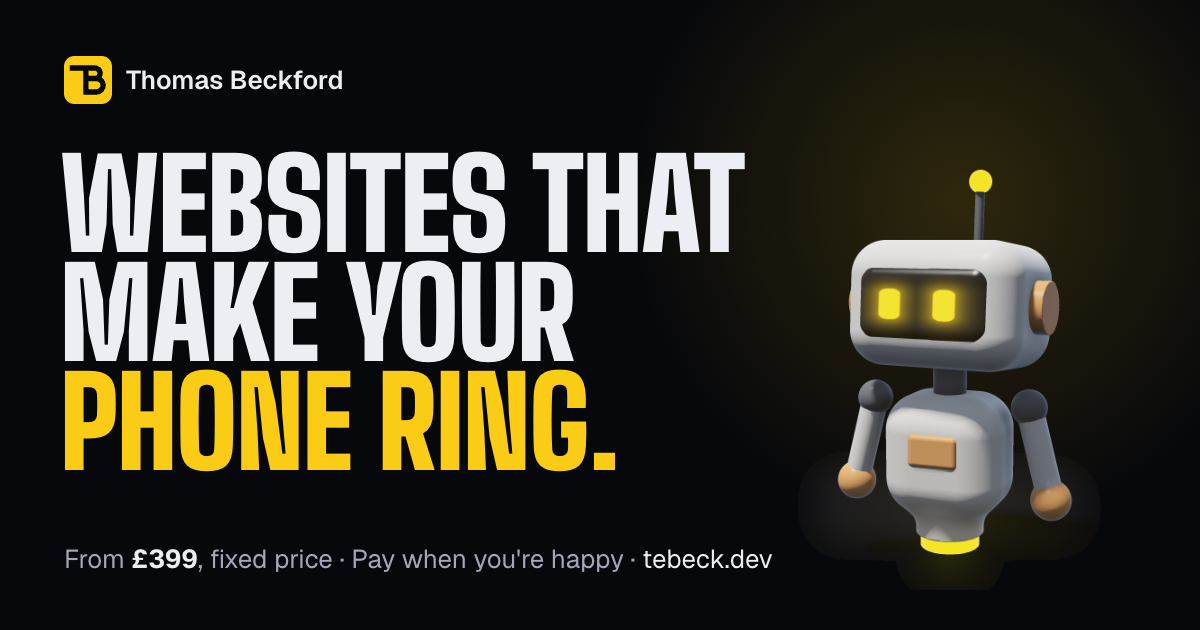
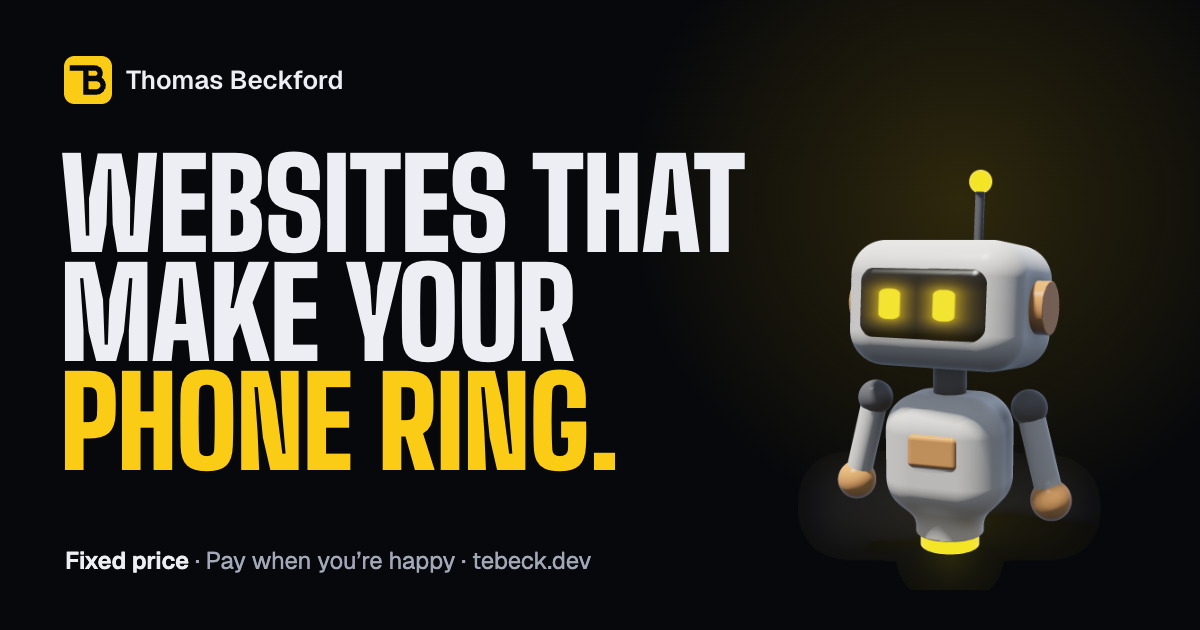
Take my own prices off the site: hero, title, services, FAQ, Boti, schema, llms.txt and OG image now say fixed price / one-off / monthly, quote on request; demo prices stay

Changed region(s): [[0.0308, 0.8746, 0.6475, 0.9048]]

diff --git a/src/site.ts b/src/site.ts
@@ -9,7 +9,6 @@ export const site = {
   github: 'https://github.com/thomasbeckford',
   // Google Business Profile, by its Knowledge Graph id (the share.google link is only a redirect).
   gbp: 'https://www.google.com/search?kgmid=/g/11z_lwyx_k',
-  priceFrom: 399,
   turnaround: 'about a week',
   years: '10+',
   phone: '+44 7917 628713',
@@ -26,21 +25,17 @@ export const whatsapp = (text: string) => `https://wa.me/${site.phone.replace(/\
 
 // Hosting is on Thomas, for every site. The domain he buys too, registered in the client's name, and they pay him back at cost.
 // 🤔 Host on a plan that allows commercial use (Vercel Hobby doesn't).
-export const carePrice = 19
 // One-off add-on: a Payload CMS panel so the client edits words, photos and prices; Thomas keeps design and structure.
 // 🤔 Payload needs a server and a database: check it still fits free hosting before selling it.
-export const cmsPrice = 150
 
-// TODO: monthly price for ads once decided.
 // Enquiry alerts: the n8n flow tebeck.dev runs on itself (tap → Telegram ping + Sheet row, 9:00 reminder after 3 days).
 // 🤔 One-off because it runs on my shared n8n (Railway, ~US$5–10 a month in all, plan unchecked), not one server each.
-export const alertsPrice = 50
 
 export const services = [
-  { name: 'Website', price: `From £${site.priceFrom}`, note: `One-off, fixed price: about £${Math.round(site.priceFrom / 365)} a day over a year. You pay once you're happy with it.`, items: ['Design and all the wording', 'Mobile-first, fast, set up for Google', 'Call, WhatsApp and enquiry buttons', 'Free hosting, no monthly fee', 'Your domain, in your name'] },
-  { name: 'Edit it yourself', price: `+£${cmsPrice}, one-off`, note: 'Your own editing panel, built with Payload CMS', items: ['Log in and change words, photos and prices', 'More than one language included', 'No monthly fee to make changes', 'I look after the design, the content is yours'] },
-  { name: 'Care plan', price: `From £${carePrice} a month`, note: 'Optional, cancel any time', items: ['Changes by message: prices, photos, services', 'Backups and security updates', 'Monthly check on speed and Google'] },
-  { name: 'Enquiry alerts', price: `+£${alertsPrice}, one-off`, note: 'Built with n8n, runs on my server', items: ['Every WhatsApp or email tap pings your phone (Telegram)', 'Logged in a Google Sheet, with where they found you', 'A reminder if one has waited 3 days'] },
+  { name: 'Website', price: 'Fixed price', note: "One-off, agreed before I start. You pay once you're happy with it.", items: ['Design and all the wording', 'Mobile-first, fast, set up for Google', 'Call, WhatsApp and enquiry buttons', 'Free hosting, no monthly fee', 'Your domain, in your name'] },
+  { name: 'Edit it yourself', price: 'One-off', note: 'Your own editing panel, built with Payload CMS', items: ['Log in and change words, photos and prices', 'More than one language included', 'No monthly fee to make changes', 'I look after the design, the content is yours'] },
+  { name: 'Care plan', price: 'Monthly', note: 'Optional, cancel any time', items: ['Changes by message: prices, photos, services', 'Backups and security updates', 'Monthly check on speed and Google'] },
+  { name: 'Enquiry alerts', price: 'One-off', note: 'Built with n8n, runs on my server', items: ['Every WhatsApp or email tap pings your phone (Telegram)', 'Logged in a Google Sheet, with where they found you', 'A reminder if one has waited 3 days'] },
   { name: 'Ads', price: 'Monthly', note: 'Plus your ad budget', items: ['Google Business profile set up and kept fresh', 'Google and Meta ads set up and managed', 'A plain-English report each month'] },
   { name: 'Web and mobile apps', price: 'On quote', note: 'Bookings, payments, logins, or an app in the stores?', items: ['Web apps with Next.js or TanStack Start', 'Dashboards that show your numbers in plain English', 'iOS and Android apps with React Native', 'Backend, APIs and Postgres databases', 'Payments with Stripe'] },
   { name: 'Animation', price: 'On quote', note: 'Want people to stop scrolling and look?', items: ['Scroll effects and motion', 'Interactive and 3D bits', 'Still fast on a phone'] },
@@ -58,7 +53,7 @@ export const faqs = [
   ['I already have a website. Can you redo it?', 'Yes. I rebuild it and move your web address across, so you keep your domain and email.'],
   ['Do I need to write anything?', 'No. Tell me about your business in your own words and I write it up. You approve everything before it goes live.'],
   ['Who owns the website?', 'You do. The domain is registered in your name, not mine.'],
-  ['Can I change the website myself?', `That's what the Edit it yourself add-on is for (£${cmsPrice}, one-off). I set up Payload CMS, an editing panel for your site: you log in, change the words, photos and prices, and press publish. No code, no monthly fee. Already on Sanity, Contentstack or WordPress, or need one of them? I work with those too, headless, priced on quote. I look after the design and anything that needs a developer. More than one language comes with it: every word in each language, same login. More than one venue? Payload handles that too, each venue with its own pages, priced on quote.`],
+  ['Can I change the website myself?', `That's what the Edit it yourself add-on is for, a one-off cost. I set up Payload CMS, an editing panel for your site: you log in, change the words, photos and prices, and press publish. No code, no monthly fee. Already on Sanity, Contentstack or WordPress, or need one of them? I work with those too, headless, priced on quote. I look after the design and anything that needs a developer. More than one language comes with it: every word in each language, same login. More than one venue? Payload handles that too, each venue with its own pages, priced on quote.`],
   ['Do I pay for hosting?', "Hosting is on me: free, for as long as the site is with me. The only yearly cost is your domain: I buy it for you, in your name, and you pay me back what it costs, no markup."],
   ["I'm on Checkatrade. Do I still need a website?", "It helps. On Checkatrade you sit in a list next to your competitors, and the profile isn't yours. Your own site is just you, under your name, and it's the place to send people from your van, your cards and Google."],
   ['Can you get me to the top of Google?', "Nobody can honestly promise that. I build the site fast and set up properly for Google, and the Ads plan looks after your Google Business profile, which is what shows up when people nearby search for what you do."],
@@ -66,6 +61,6 @@ export const faqs = [
   ['Do you use AI?', "Yes. Claude Code, Codex and the like, for repetitive coding, like a builder uses a power drill. I decide what gets built, check every line and test it on real phones. I also build AI-powered features for clients: chatbots, automation, agentic tools."],
   ['What do you build it with?', "Whatever fits the job, not one tool for everything. A site that's mostly words and photos, like most trade sites, I build with Astro, so it loads fast even on one bar of signal. Bookings, payments or customer logins get Next.js or TanStack Start, a proper database like Postgres, and Stripe. Apps get React Native. No Wix or WordPress page builders. You don't need to know any of this: you get a fast site that can grow with you."],
   ['Where are you based?', 'London. I work with businesses across the UK, and everything can be done remotely.'],
-  ['Are there ongoing costs?', `The website is a one-off price and hosting is free. The only yearly cost is your domain, at cost. The care plan (from £${carePrice} a month) and ads are optional, cancel any time.`],
+  ['Are there ongoing costs?', `The website is a one-off price and hosting is free. The only yearly cost is your domain, at cost. The care plan and ads are monthly and optional, cancel any time.`],
   ['What if I don\'t like it?', 'You don\'t pay until you\'re happy with the site. No deposit upfront.'],
 ]

diff --git a/src/pages/llms.txt.ts b/src/pages/llms.txt.ts
@@ -1,15 +1,15 @@
-import { site, services, faqs, carePrice, cmsPrice, whatsapp } from '@/site'
+import { site, services, faqs, whatsapp } from '@/site'
 
 // llmstxt.org: a plain summary so AI assistants quote the offer right instead of guessing from the page.
 export const GET = () =>
   new Response(
     `# ${site.name}
 
-> Websites for local businesses in the UK, built and looked after by ${site.name}, a London software engineer with ${site.years} years' experience. From £${site.priceFrom}, fixed price, live in ${site.turnaround}, no deposit: you pay once you're happy. Free hosting. You deal with Thomas directly, not an agency.
+> Websites for local businesses in the UK, built and looked after by ${site.name}, a London software engineer with ${site.years} years' experience. Fixed price, quoted up front, live in ${site.turnaround}, no deposit: you pay once you're happy. Free hosting. You deal with Thomas directly, not an agency.
 
 Thomas builds websites for tradespeople and local businesses (roofers, electricians, plumbers, cafés, salons, gardeners). He also rebuilds old websites for phones, keeping the web address and email. He writes the wording, sets the site up for Google, keeps it up to date and can run Google and Meta ads. He has built for brands like Five Iron Golf and runs his own software products, including SoyMenu (QR menus for 100+ restaurants since 2019).
 
-Pricing in short: website from £${site.priceFrom} one-off, fixed price, paid once the client is happy; hosting free; domain at cost, registered in the client's name; optional care plan from £${carePrice} a month; optional Payload CMS editing panel, £${cmsPrice} one-off, so clients change their own words, photos and prices, in more than one language if they need it. Built with Astro for fast content sites, Next.js or TanStack Start with Postgres and Stripe when a site needs bookings, payments or logins, React Native for apps. Also headless CMS work on Sanity, Contentstack or WordPress, and bigger builds (web apps, mobile apps, backend, AI features), priced on quote.
+Pricing in short: each website gets a fixed, one-off price, quoted before work starts and paid once the client is happy; hosting free; domain at cost, registered in the client's name; optional monthly care plan; optional Payload CMS editing panel, one-off, so clients change their own words, photos and prices, in more than one language if they need it. Built with Astro for fast content sites, Next.js or TanStack Start with Postgres and Stripe when a site needs bookings, payments or logins, React Native for apps. Also headless CMS work on Sanity, Contentstack or WordPress, and bigger builds (web apps, mobile apps, backend, AI features), priced on quote.
 
 ## Services
 
@@ -21,7 +21,7 @@ ${faqs.map(([q, a]) => `- ${q} ${a}`).join('\n')}
 
 ## Pages
 
-- [Services](${site.url}/#services): editing panels, how it works, add-ons and prices
+- [Services](${site.url}/#services): editing panels, how it works, add-ons and how pricing works
 - [Bigger jobs](${site.url}/#apps): web apps, mobile apps, backend and APIs, AI features
 - [Example sites](${site.url}/#sites): full example websites for tradespeople and a music venue, one look each, plus a live client site
 - [All work](${site.url}/work): every example site and live client site on one page
